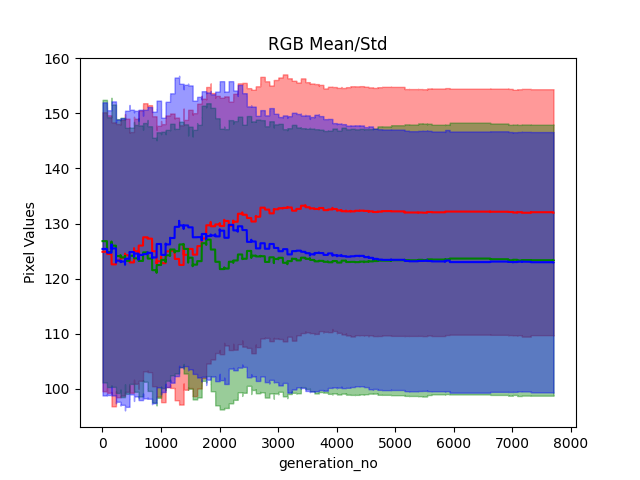
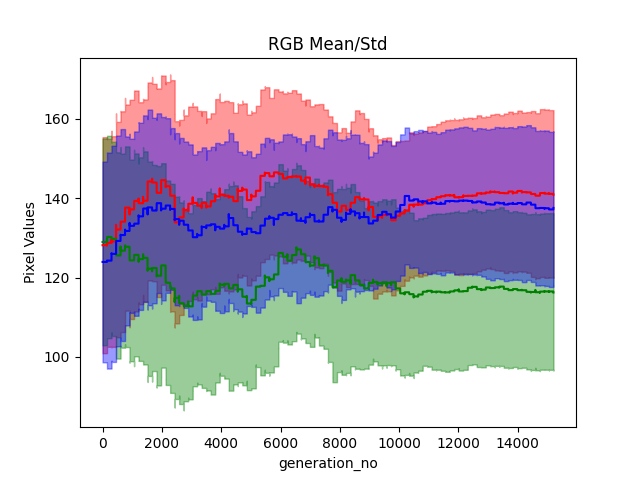
complex survival criterion

diff --git a/environment.py b/environment.py
@@ -207,6 +207,6 @@ class Environment:
 		plt.savefig("color.png")
 
 if __name__ == '__main__':
-	env = Environment(random_individual_generator, read_individual_states, take_individual_next_step, purge_generation, make_children_function, population_size=500, iterations_per_generation=75, total_generations=100, height=150, width=150)
+	env = Environment(random_individual_generator, read_individual_states, take_individual_next_step, purge_generation, make_children_function, population_size=500, iterations_per_generation=150, total_generations=100, height=150, width=150)
 	env.run_experiment()
 	gif_generator()

diff --git a/purger.py b/purger.py
@@ -1,6 +1,6 @@
 import numpy as np
 
-def purge_generation(interaction_maps, pop, safe_zones=[[0+5, 75+5, 0+5, 150+5]]):
+def purge_generation(interaction_maps, pop, safe_zones=[[0+5, 75+5, 0+5, 37+5], [0+5, 75+5, 112+5, 150+5]]):
 	safe_pop = []
 	for individual in pop:
 		unsafe = True
